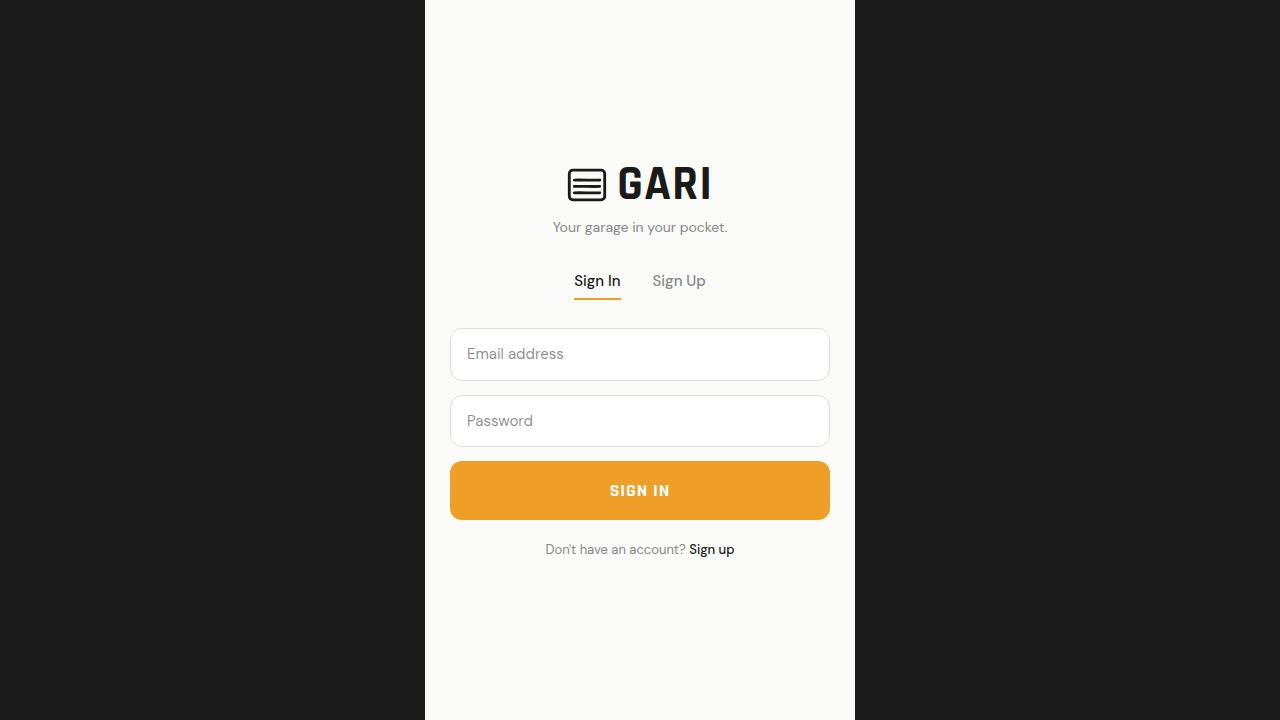
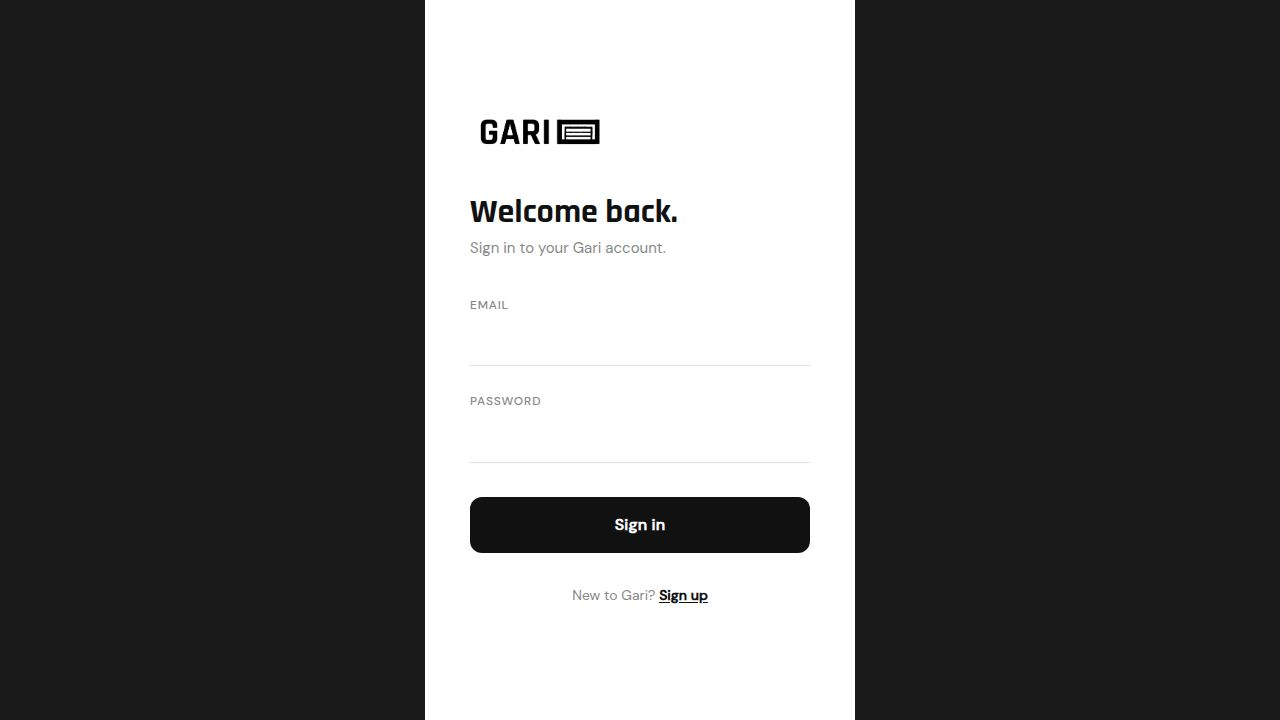
Update vehicle details display with mileage and VIN
Introduce a new VinCopy component and update the LandingPage to display mileage in a larger font and VIN in a smaller, tappable font below the vehicle description.

Replit-Commit-Author: Agent
Replit-Commit-Session-Id: fb3ae617-809f-4aa9-82d6-50ac6d8178b8
Replit-Commit-Checkpoint-Type: full_checkpoint
Replit-Commit-Event-Id: 9dcc3b84-9346-4c14-945e-d0d476f7cd51
Replit-Commit-Screenshot-Url: https://storage.googleapis.com/screenshot-production-us-central1/b69e617b-79bc-410e-be97-1e1722264d51/fb3ae617-809f-4aa9-82d6-50ac6d8178b8/jCXjIrh
Replit-Helium-Checkpoint-Created: true

diff --git a/artifacts/web-app/src/pages/Dashboard.tsx b/artifacts/web-app/src/pages/Dashboard.tsx
@@ -261,6 +261,59 @@ const DOC_CATEGORIES = [
 const EXPENSE_TYPES = ["Fuel", "Maintenance", "Repairs", "Parts", "Insurance", "Other"];
 const SEGMENT_COLORS = ["#1F6B2E", "#2D7A3D", "#3A9650", "#5AB26B", "#85C993", "#B3DDB9"];
 
+/* ── VIN COPY ──────────────────────────────────────── */
+function VinCopy({ vin }: { vin: string }) {
+  const [copied, setCopied] = useState(false);
+
+  function handleCopy() {
+    navigator.clipboard.writeText(vin).then(() => {
+      setCopied(true);
+      setTimeout(() => setCopied(false), 1800);
+    }).catch(() => {
+      const el = document.createElement("textarea");
+      el.value = vin;
+      document.body.appendChild(el);
+      el.select();
+      document.execCommand("copy");
+      document.body.removeChild(el);
+      setCopied(true);
+      setTimeout(() => setCopied(false), 1800);
+    });
+  }
+
+  return (
+    <button
+      onClick={handleCopy}
+      style={{
+        background: "none",
+        border: "none",
+        padding: "4px 0 0",
+        cursor: "pointer",
+        display: "flex",
+        alignItems: "center",
+        gap: 6,
+        textAlign: "left",
+      }}
+    >
+      <span style={{
+        fontFamily: "'DM Sans', sans-serif",
+        fontSize: 11,
+        color: copied ? C.green : C.muted,
+        letterSpacing: "0.06em",
+        transition: "color 0.2s",
+      }}>
+        {copied ? "Copied!" : `VIN ${vin}`}
+      </span>
+      {!copied && (
+        <svg width="11" height="11" viewBox="0 0 14 14" fill="none">
+          <rect x="4" y="1" width="9" height="9" rx="1.5" stroke={C.border} strokeWidth="1.5"/>
+          <path d="M1 5v7a1 1 0 001 1h7" stroke={C.border} strokeWidth="1.5" strokeLinecap="round"/>
+        </svg>
+      )}
+    </button>
+  );
+}
+
 /* ── PAGE 1: LANDING ───────────────────────────────── */
 function LandingPage({
   vehicle,
@@ -290,9 +343,9 @@ function LandingPage({
         flexDirection: "column",
       }}
     >
-      {/* Header: nickname + logo icon inline at same size */}
+      {/* Header: nickname + logo icon inline */}
       <div style={{ padding: "32px 24px 0" }}>
-        <div style={{ display: "flex", alignItems: "center", gap: 10, overflow: "hidden" }}>
+        <div style={{ display: "inline-flex", alignItems: "center", gap: 8, maxWidth: "100%", overflow: "hidden" }}>
           <h1
             style={{
               fontFamily: "'Rajdhani', sans-serif",
@@ -313,16 +366,40 @@ function LandingPage({
           <img
             src={`${BASE}logo-icon.png`}
             alt="Gari"
-            style={{ height: 32, width: "auto", objectFit: "contain", flexShrink: 0 }}
+            style={{ height: 32, width: "auto", objectFit: "contain", flexShrink: 0, display: "block" }}
             onError={(e) => {
               (e.currentTarget as HTMLImageElement).src = `${BASE}logo.png`;
             }}
           />
         </div>
+
+        {/* Year Make Model */}
         {subtitle && (
           <p style={{ fontFamily: "'DM Sans', sans-serif", fontSize: 13, color: C.muted, margin: "5px 0 0", padding: 0 }}>
             {subtitle}
           </p>
+        )}
+
+        {/* Mileage */}
+        {vehicle.mileage != null && (
+          <p style={{
+            fontFamily: "'Rajdhani', sans-serif",
+            fontWeight: 700,
+            fontSize: 26,
+            color: C.text,
+            margin: "10px 0 0",
+            lineHeight: 1,
+          }}>
+            {vehicle.mileage.toLocaleString()}
+            <span style={{ fontFamily: "'DM Sans', sans-serif", fontWeight: 400, fontSize: 14, color: C.muted, marginLeft: 5 }}>
+              {vehicle.mileage_unit}
+            </span>
+          </p>
+        )}
+
+        {/* VIN — tap to copy */}
+        {vehicle.vin && (
+          <VinCopy vin={vehicle.vin} />
         )}
       </div>
 